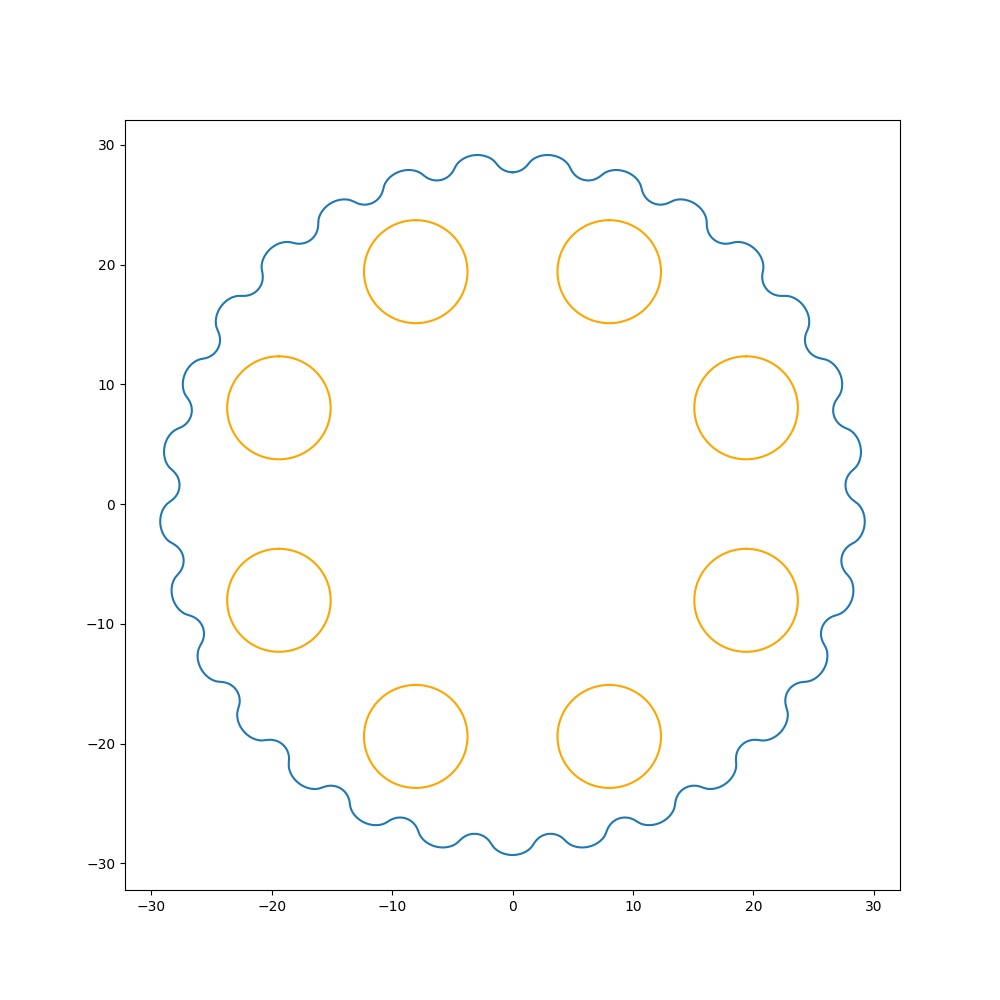
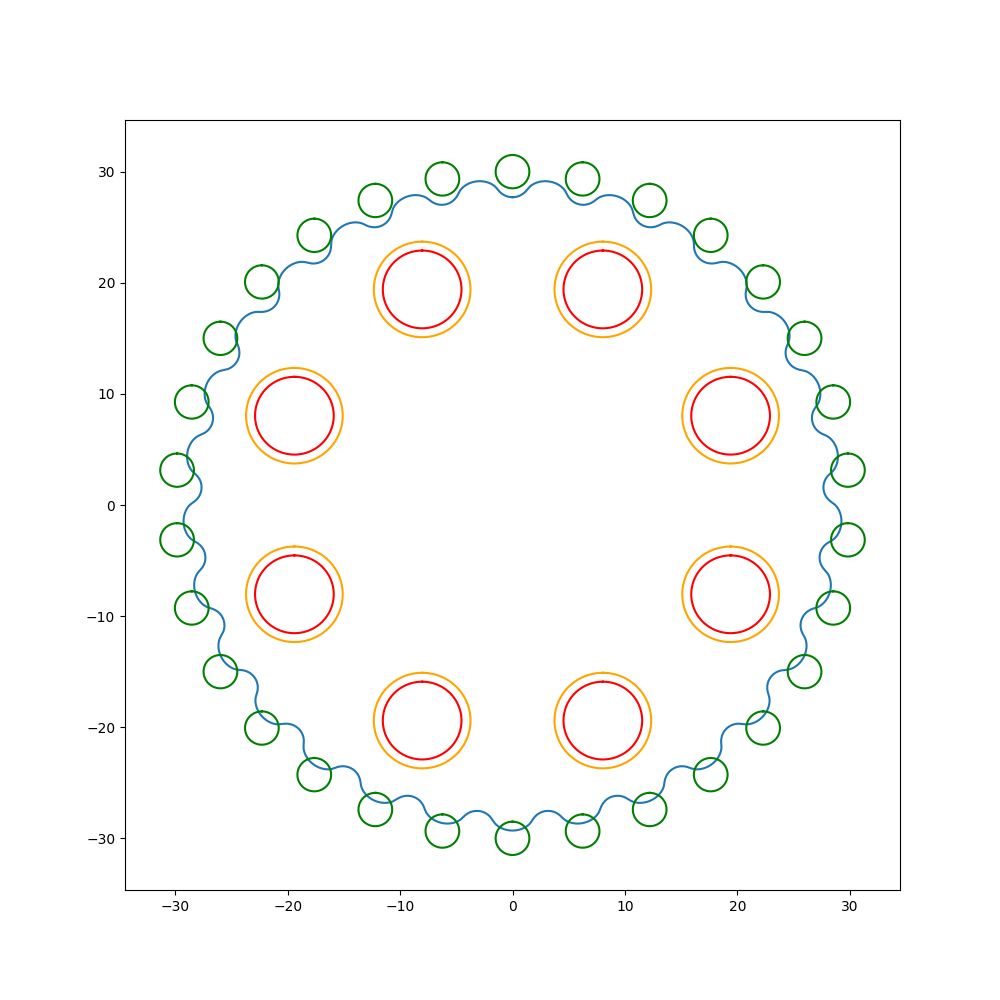
creating classes for plotting based off of the paper

diff --git a/cfdmclasses.py b/cfdmclasses.py
@@ -1,0 +1,187 @@
+import numpy as np
+import math
+
+e = .8 #eccentricity distance
+rp = 1.5 #roller pin radius
+Rp = 30 #roller pin distribution radius
+zc = 29 #number of cycloidal teeth
+zp = zc + 1 #number of roller pins
+rw = 3.5 #output pin radius
+Rw = 21 #output pin distribution radius
+rwh = rw + e #output pin hole radius
+Rwh = Rw #output pin hole distribution radius
+zw = 8 #number of output pins
+# omegain = #input drive speed
+# omegaout = #output drive speed
+
+"""
+if configuration is "pin gear fixed, output disk outputs":
+    Iew = omegain/omegaout = -zp/(zp - zc) = -zp #theoretical transmission ratio
+
+if configuration is "out put disk is fixed, pin gear outputs":
+    Iep = omegaout/omegain = zp/(zp - zc) = zp #theoretical transmission ratio
+"""
+
+re = 8 #radius of input shaft
+rec = 15 #baring radius of eccentric shaft in contact with cycloidal gear
+
+
+de = 0 #eccentric shaft deviation
+
+drwh = 0 #deviation in radius of pin-hole
+dRwh = 0 #deviation in radius of distribution of pin-hole
+
+drp = 0 #deviation in radius of roller pin
+dRp = 0 #deviation in radius of distribution of roller pin
+
+class Cycloid:
+    def __init__(self):
+        self.points = np.array([]) #points of the graph
+        self.normdir = np.array([]) #normal direction for each point
+        self.tlist = np.array([]) #independent variable for the parametric equations
+        self.roc = np.array([]) #radius of curvature
+
+    def set_tlist(self, steps = 5000):
+        self.tlist = np.linspace(0,2*np.pi,steps)
+        return self.tlist
+
+    def get_points(self):
+        points = []
+        for t in self.tlist:
+            K1 = (e * zp)/(Rp + dRp)
+            x = (Rp + dRp)* np.sin(t) - e * np.sin(zp*t) + ((K1*np.sin(zp*t)-np.sin(t))*(rp + drp))/(math.sqrt(1+K1**2 - 2*K1*np.cos(zc*t)))
+            y = (Rp + dRp)* np.cos(t) - e * np.cos(zp*t) + ((K1*np.cos(zp*t)-np.cos(t))*(rp + drp))/(math.sqrt(1+K1**2 - 2*K1*np.cos(zc*t)))
+            points.append([x,y,t])
+        self.points = np.array(points)
+        return self.points
+
+    def get_normdir(self):
+        for i in self.points:
+            x = (i[0,0] - zc * e * np.sin(zp*i[1]))/(math.sqrt((i[0,0] - zc * e * np.sin(zp * i[1]))**2 + (i[0,0] - zc * e * np.cos(zp * i[1]))**2))
+            y = (i[0,1] - zc * e * np.cos(zp*i[1]))/(math.sqrt((i[0,1] - zc * e * np.sin(zp * i[1]))**2 + (i[0,1] - zc * e * np.cos(zp * i[1]))**2))
+            np.append(self.normdir, (x,y,i[2]))
+        return self.normdir
+
+    def get_roc(self):
+        for t in self.tlist:
+            K1 = (e * zp)/(Rp + dRp)
+            pc = (1 + K1**2 -2*K1*np.cos(zc * t))**1.5/(K1*(1 + zp)*np.cos(zc*t - zp * K1**2 - 1))
+            np.append(self.roc, (pc, t))
+        return self.roc
+
+    def translate_points(self):
+        pass
+
+class OutputPinHole:
+    def __init__(self):
+        self.npins = zw
+        self.points = np.array([]) #points of the graph
+        self.normdir = np.array([]) #normal direction for each point
+        self.tlist = np.array([]) #independent variable for the parametric equations
+
+    def set_tlist(self, steps = 5000):
+        self.tlist = np.linspace(0,2*np.pi,steps)
+        return self.tlist
+
+    def get_points(self):
+        points = []
+        for z in range(self.npins):
+            pin = []
+            for t in self.tlist:
+                i = z + 1
+                x =  -(rwh + drwh) * np.sin(t) - (Rwh + dRwh) * np.sin(((2*i+1)*np.pi)/(zw))
+                y = (rwh + drwh) * np.cos(t) + (Rwh + dRwh) * np.cos(((2*i+1)*np.pi)/(zw))
+                pin.append([x,y,t])
+            points.append(pin)
+        self.points = np.array(points)
+        return self.points
+
+    def get_normdir(self):
+        for i in self.points:
+            pin = np.array([])
+            for t in i:
+                x = - np.sin(t[1])
+                y = np.cos(t[1])
+                np.append(pin, (x,y,t))
+            np.append(self.normdir, pin)
+        return self.normdir
+
+    def translate_points(self):
+        pass
+
+
+class RollerPin:
+    def __init__(self):
+        self.nrollers = zp
+        self.points = np.array([]) #points of the graph
+        self.normdir = np.array([]) #normal direction for each point
+        self.tlist = np.array([]) #independent variable for the parametric equations
+
+    def set_tlist(self, steps = 5000):
+        self.tlist = np.linspace(0,2*np.pi,steps)
+        return self.tlist
+
+    def get_points(self):
+        points = []
+        for z in range(self.nrollers):
+            roller = []
+            i = z + 1
+            for t in self.tlist:
+                x = -(rp + drp) * np.sin(t) - (Rp + dRp) * np.sin(2 * np.pi * (i - 1)/zp)
+                y = (rp + drp) * np.cos(t) + (Rp + dRp) * np.cos(2 * np.pi * (i - 1)/zp)
+                roller.append([x,y,t])
+            points.append(roller)
+        self.points = np.array(points)
+        return self.points
+
+    def get_normdir(self):
+        for i in self.points:
+            roller = np.array([])
+            for t in i:
+                x = - np.sin(t[1])
+                y = np.cos(t[1])
+                np.append(roller, (x,y,t))
+            np.append(self.normdir, roller)
+        return self.normdir
+
+    def translate_points(self):
+        pass
+
+
+class OutputPin:
+    def __init__(self):
+        self.noutputs = zw
+        self.points = np.array([]) #points of the graph
+        self.normdir = np.array([]) #normal direction for each point
+        self.tlist = np.array([]) #independent variable for the parametric equations
+
+    def set_tlist(self, steps = 5000):
+        self.tlist = np.linspace(0,2*np.pi,steps)
+        return self.tlist
+
+    def get_points(self):
+        points = []
+        for z in range(self.noutputs):
+            pin = []
+            i = z + 1
+            for t in self.tlist:
+                x = -rw * np.sin(t) - Rw *np.sin(((2*i+1)*np.pi)/(zw))
+                y = rw * np.cos(t) + Rw * np.cos(((2*i+1)*np.pi)/(zw))
+                pin.append([x,y,t])
+            points.append(pin)
+        self.points = np.array(points)
+        return self.points
+
+    def get_normdir(self):
+        for i in self.points:
+            pin = np.array([])
+            for t in i:
+                x = - np.sin(t[1])
+                y = np.cos(t[1])
+                np.append(pin, (x,y,t))
+            np.append(self.normdir, pin)
+        return self.normdir
+
+
+    def translate_points(self):
+        pass

diff --git a/plotting.py b/plotting.py
@@ -1,0 +1,37 @@
+import numpy as np
+import matplotlib.pyplot as plt
+import math
+import cfdmclasses
+
+
+#creating objects
+mycycloid = cfdmclasses.Cycloid()
+mycycloid.set_tlist()
+mycycloid.get_points()
+
+myoutputpinholes = cfdmclasses.OutputPinHole()
+myoutputpinholes.set_tlist()
+myoutputpinholes.get_points()
+
+myrollerpins = cfdmclasses.RollerPin()
+myrollerpins.set_tlist()
+myrollerpins.get_points()
+
+myoutputpins = cfdmclasses.OutputPin()
+myoutputpins.set_tlist()
+myoutputpins.get_points()
+
+myrollerpins = cfdmclasses.RollerPin()
+myrollerpins.set_tlist()
+myrollerpins.get_points()
+
+#plotting
+plt.figure(figsize=(10,10))
+plt.plot(mycycloid.points[:,0], mycycloid.points[:,1])
+for i in range(cfdmclasses.zw):
+    plt.plot(myoutputpinholes.points[i,:,0],myoutputpinholes.points[i,:,1], color="Orange")
+    plt.plot(myoutputpins.points[i,:,0],myoutputpins.points[i,:,1], color="Red")
+for i in range(cfdmclasses.zp):
+    plt.plot(myrollerpins.points[i,:,0],myrollerpins.points[i,:,1], color="Green")
+
+plt.savefig("plot")
